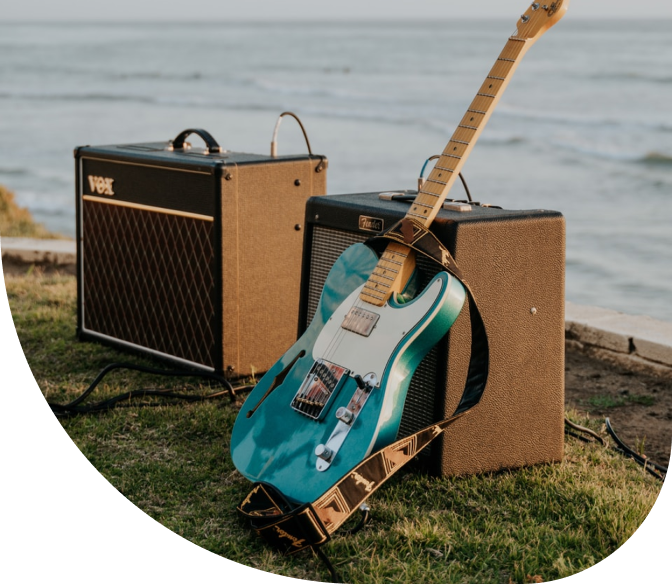
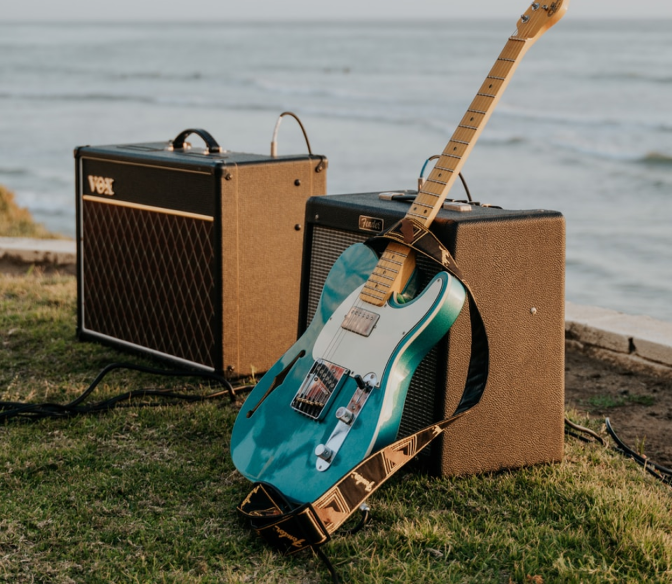
Add adaptive header, main. Fixed mistakes

Changed region(s): [[0.0, 0.4315, 0.5312, 1.0], [0.7812, 0.7705, 1.0, 1.0]]

diff --git a/css/style.css b/css/style.css
@@ -7,45 +7,36 @@
     font-weight: 400;
     font-style: normal;
 }
-
 *, *::before, *::after {
     margin: 0;
     padding: 0;
     border: none;
     box-sizing: border-box;
 }
-
 html, body {
     height: 100%;
     min-width: 320px;
 }
-
 body{
     line-height: 1;
     font-family: 'Poppins', sans-serif;
     color: #666666;
 }
-
 a {
     text-decoration: none;
 }
-
 li {
     list-style: none;
 }
-
 .wrapper {
     overflow: hidden;
     min-height: 100%;
     display: flex;
     flex-direction: column;
 }
-
 .page {
     flex: 1 1 auto;
 }
-.page__main {}
-
 [class*="__container"]{
     max-width: 1230px;
     margin: 0 auto;
@@ -69,16 +60,17 @@ li {
     padding-top: 5px;
     padding-bottom: 5px;
 }
-.header__logo {
-
+.menu {
+    padding: 10px 15px 10px 0;
+    background-color: rgba(255, 255, 255, 0.5);
+    border-radius: 5px;
 }
-.header__menu {}
-.menu {}
 .menu__list {
     display: flex;
-    gap: 56px;
+    flex-wrap: wrap;
+    column-gap: 56px;
+    row-gap: 10px;
 }
-.menu__item {}
 .menu__link {
     color: rgba(18, 18, 18, 0.4);
     font-weight: 500;
@@ -98,6 +90,7 @@ li {
 .main__content {
     flex: 0 1 50%;
     align-self: flex-end;
+    padding-top: 120px;
     padding-bottom: 60px;
     padding-right: 20px;
 }
@@ -126,21 +119,22 @@ li {
     align-items: center;
 
 }
-
-.actions-main {}
 .actions-main__button {
     padding: 18.5px 48px;
     background-color: #ff6428;
     border-radius: 40px;
     color: #fff;
     font-weight: 600;
-    line-height: 26px;
+    line-height: 28px;
+    text-align: center;
+    transition: all 0.3s ease 0s;
+}
+.actions-main__button:hover{
+    background-color: #ba4619;
 }
 .actions-main__button:not(:last-child) {
     margin-right: 40px;
 }
-.actions-main__icon {}
-
 .actions-main__icon:not(:last-child) {
     margin-right: 27px;
 }
@@ -148,9 +142,15 @@ li {
     flex: 0 1 50%;
 }
 .main__image {
-    display: inline-block;
     position: relative;
     margin-right: -135px;
+    padding-bottom: 97.6%;
+}
+.main__image img {
+    position: absolute;
+    object-fit: cover;
+    max-width: 672px;
+    border-radius: 0 0 160px 375px;
 }
 .main__image::after {
     content: '';
@@ -162,3 +162,66 @@ li {
     bottom: 0;
     transform: translate(0,50%);
 }
+@media (max-width: 1092px) {
+    .header__container {
+        gap: 50px;
+        min-height: 100px;
+    }
+    .menu-list {
+        column-gap: 40px;
+    }
+    .main__image img {
+        width: 100%;
+    }
+    .main__content {
+        flex: 0 0 60%;
+        padding-bottom: 0;
+    }
+    .main__decor {
+        flex: 0 0 40%;
+    }
+}
+@media (max-width: 767.98px) {
+    .header__container {
+        min-height: 65px;
+    }
+    .main__decor {
+        display: none;
+    }
+    .main__content {
+        flex: 1 1 100%;
+        padding-right: 0;
+        padding-top: 80px;
+    }
+    .main-title {
+        font-size: 44px;
+    }
+}
+@media (max-width: 479.98px) {
+    .header__container {
+        gap: 15px;
+    }
+    .menu__list {
+        column-gap: 20px;
+    }
+    .header__logo {
+        width: 28px;
+        overflow: hidden;
+        flex: 0 0 28px;
+    }
+    .menu {
+        padding: 0;
+    }
+    .actions-main {
+        flex-wrap: wrap;
+        justify-content: center;
+    }
+    .actions-main__button {
+        flex: 1 1 100%;
+    }
+    .actions-main__button:not(:last-child) {
+        margin-right: 0;
+        margin-bottom: 10px;
+    }
+}
+/* -------------------------- */
